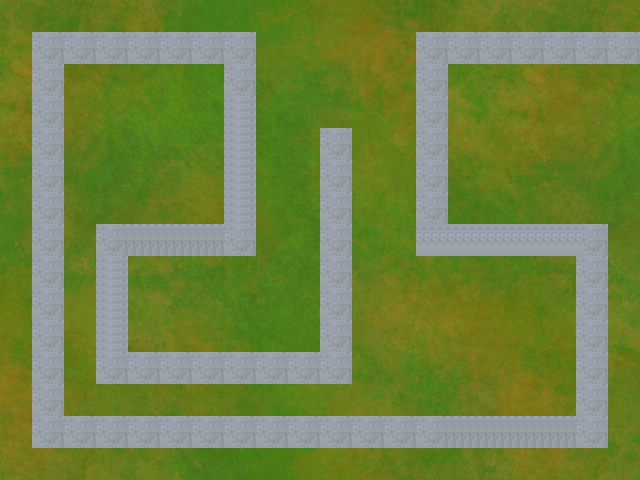
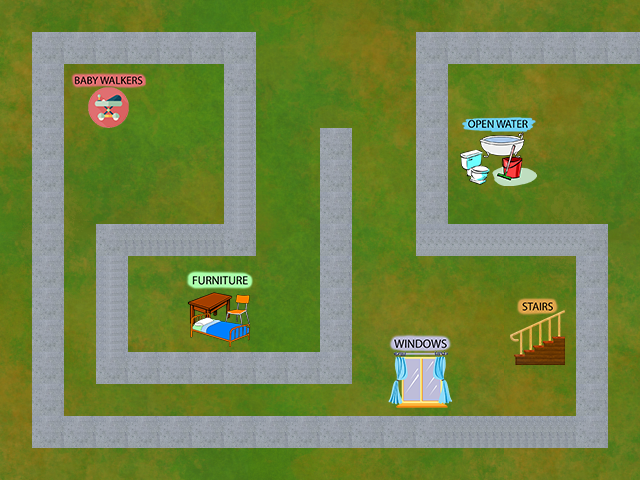
added hazards into map.png and moved gates accordingly

diff --git a/src/phaser/GameScene.js b/src/phaser/GameScene.js
@@ -4,7 +4,6 @@ import baby2 from "../assets/babies/baby2.png";
 import baby3 from "../assets/babies/baby3.png";
 import baby4 from "../assets/babies/baby4.png";
 import baby5 from "../assets/babies/baby5.png";
-import water from "../assets/openwater.png"
 import house from "../assets/house.png";
 import gate1 from "../assets/gate.png";
 import map from "../assets/map.png";
@@ -33,7 +32,6 @@ class gameScene extends Phaser.Scene {
     this.load.image("baby4", baby4);
     this.load.image("baby5", baby5);
     this.load.image("map", map);
-    this.load.image('water', water)
     this.load.image('house', house);
     this.load.image("gate1", gate1);
     this.load.image("boundary", boundary)
@@ -44,7 +42,6 @@ class gameScene extends Phaser.Scene {
     this.add.image(400, 300, 'map').setScale(1.3); //adds map
     this.createBoundary();
     this.add.image(420, 90, 'house').setScale(0.1); //adds StorkBuilding
-    this.createHazards(); //adds hazard icons to map
     this.createGates(); //adds gates that sit next to hazards
 
     this.onSpawn(); //spawn toddler?
@@ -59,12 +56,6 @@ class gameScene extends Phaser.Scene {
 
   update() {
     // max of 10 children on the track
-  }
-
-  createHazards(){ //adds 6 unique hazards to map
-    this.add.image(175, 170, 'water').setScale(0.25);
-    this.add.image(345, 370, 'water').setScale(0.25);
-    this.add.image(630, 460, 'water').setScale(0.25);
   }
 
   createBoundary() { //mass insert boundaries to keep babies on the screen
@@ -91,10 +82,12 @@ class gameScene extends Phaser.Scene {
 
   createGates() { //inserts all gates into game
     gateGroup = this.physics.add.group();
-    this.addGate(70, 180, 'gate1', 0.1, 0);
-    this.addGate(120, 540, 'gate1', 0.1, 270);
-    this.addGate(735, 480, 'gate1', 0.1, 0);
-    this.addGate(422, 300, 'gate1', 0.1, 0);
+    this.addGate(550, 190, 'gate1', 0.05, 0); //openwater
+    this.addGate(750, 440, 'gate1', 0.05, 0); //stairs
+    this.addGate(525, 550, 'gate1', 0.05, 270); //windows
+    this.addGate(50, 120, 'gate1', 0.05, 0); //baby walkers
+    this.addGate(290, 250, 'gate1', 0.05, 0); //baby equipment
+    this.addGate(275, 465, 'gate1', 0.05, 270); //furniture
   }
 
   addGate(x, y, type, scale, angle) { //adds gate to game
